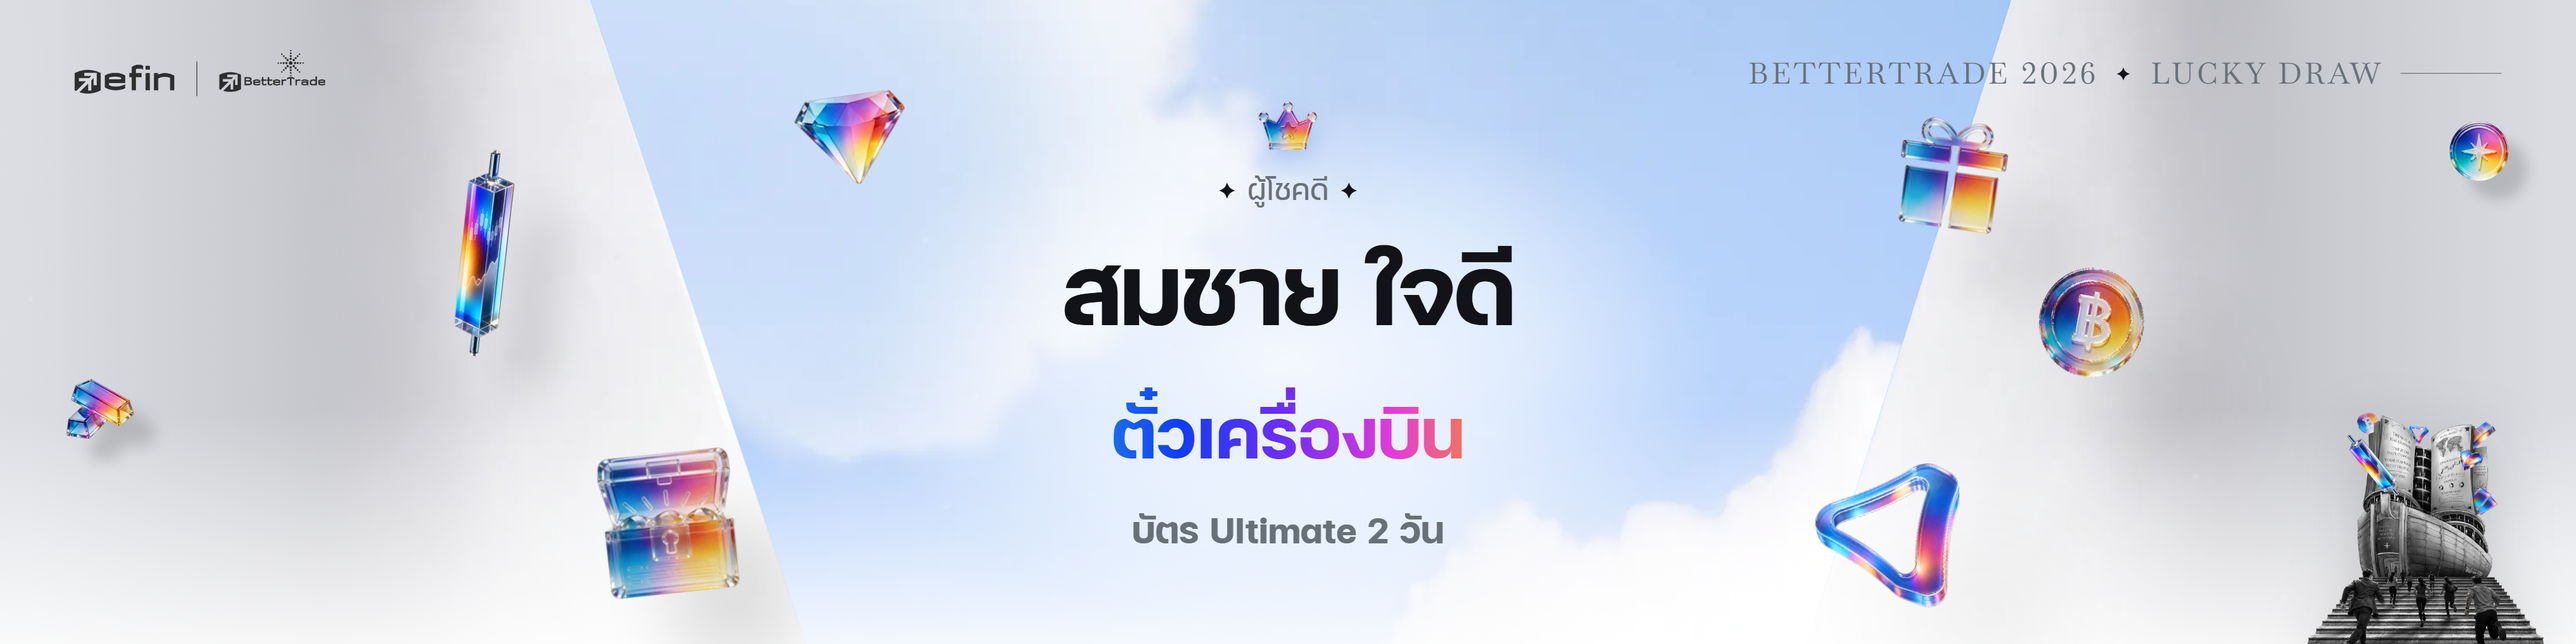
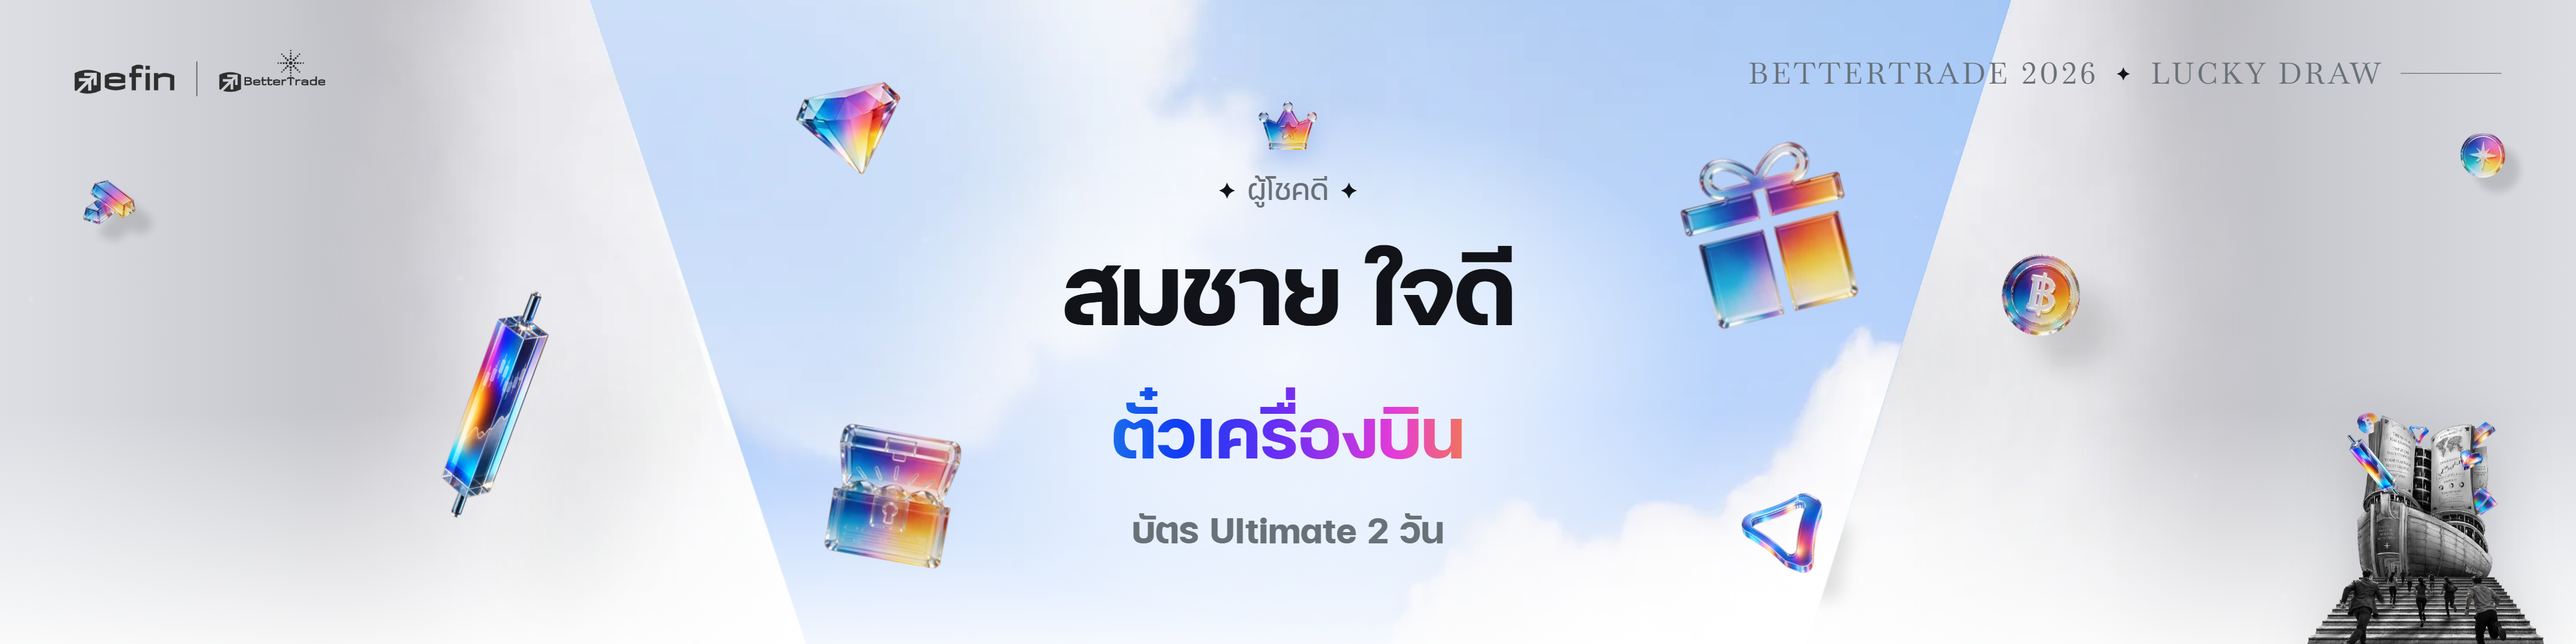
Main Stage: size ladder for the glass pieces, groups that slide towards the content
- Eight-step size ladder (candle 300 down to compass 60) with five depth layers
  (hero / large / mid / small / far): shadow reach, softness and bob scale with size;
  the two furthest pieces are hazed a little
- Right group (gift, coin, efin) and left group (diamond, chest) slide towards the
  content by up to 300px, as far as each scene's text allows, and stay at least ~100px
  clear; wide prize titles and long names push them back out; the chest keeps clear of
  the candle; shadows slide with them; the board scene resets them
- placeGroup measures layout boxes and un-transforms the scene instead of reading
  mid-animation rects, so the result no longer depends on when the scene is switched
- Regenerate previews

diff --git a/show-screen.html b/show-screen.html
@@ -47,25 +47,33 @@
   .seam.l{left:-329px;background:linear-gradient(90deg,#C8C9CE,rgba(200,201,206,0))}
   .seam.r{left:2015px;background:linear-gradient(270deg,#C8C9CE,rgba(200,201,206,0))}
   .wing-el{position:absolute;filter:drop-shadow(0 22px 26px rgba(63,111,224,.2));animation:bob 7s ease-in-out infinite}
-  /* Main Stage pieces in three depth layers, from the wings in to the sky around the content:
-       far   (wings, small)            gold bars b, compass c
-       mid   (straddling the wall edge) candle, chest, ship
-       near  (in the sky, clear of text) diamond n1, coin n2, gift, efin */
-  .wing-el.b{left:-640px;bottom:240px;width:130px;animation-delay:-4.5s}
-  .wing-el.c{left:2440px;top:140px;width:110px;animation-delay:-1s}
-  .wing-el.n1{left:340px;top:120px;width:120px;animation-delay:-3s}
-  .wing-el.n2{left:1940px;top:360px;width:110px;animation-delay:-5.5s}   /* between the name's right edge (~1560) and the ship (~2274), a little nearer the ship */
+  /* Main Stage pieces on an 8-step size ladder (shown size, set by DEPTH in the script), placed so big and small pieces
+     sit side by side rather than in an even staircase:
+       hero 300 candle (left, low) · large 220 gift (right, high) · mid 170 chest, 140 diamond n1 ·
+       small 110 coin n2, 90 efin · far 70 gold bars b, 60 compass c (slightly hazed) */
+  .wing-el.b{left:-625px;top:195px;width:130px;animation-delay:-4.5s}
+  .wing-el.c{left:2445px;top:145px;width:110px;animation-delay:-1s}
+  .wing-el.n1{left:40px;top:110px;width:120px;animation-delay:-3s}   /* resting spot, out on the left; slides in with the chest */
+  .wing-el.n2{left:2175px;top:325px;width:110px;animation-delay:-5.5s}   /* above the ship, right of the gift */
+  body.screen-main #stage.depth .wing-el:is(.b,.c){opacity:.85}   /* the two furthest pieces read a little hazier */
   /* the logo row follows the edges of the whole 4:1 screen (same 96px margin as Mini Stage), not the 1920 core */
   body.screen-main .top{left:-604px;right:-604px}
   body.screen-main .wall.l{left:-325px}
   body.screen-main .wall.r{left:1559px}
-  body.screen-main .el.candle{left:-200px;top:200px}   /* bar centred between the far gold bars (~-510) and the name's left edge (~360) */
-  body.screen-main .el.chest{left:77px;bottom:70px}   /* centred between the bar chart (~-75) and the near diamond (~400) */
+  body.screen-main .el.candle{left:-185px;top:395px}   /* the hero piece, low on the left wall */
+  body.screen-main .el.chest{left:65px;bottom:auto;top:555px}   /* beside the candle, a size smaller */
   body.screen-main .el.gift{right:auto;left:1560px;top:150px;width:170px}   /* below the corner label, which is larger on Main Stage */
   body.screen-main .ship{right:-660px;height:300px}   /* right zone, clear of the board */
-  body.screen-main .el.efin{right:auto;bottom:auto;left:1680px;top:640px;width:120px}
+  body.screen-main .el.efin{right:auto;bottom:auto;left:1840px;top:633px;width:120px}   /* small, low, well away from the ship */
   /* the 4-column board fills the sky, so the mid and near pieces step aside there (far pieces and the ship stay) */
-  .el,.wing-el{transition:opacity .6s,scale .8s ease,rotate .8s ease}   /* size and tilt ease in and out of the depth treatment */
+  .el,.wing-el{transition:opacity .6s,scale .8s ease,rotate .8s ease,margin-left .8s ease}   /* size, tilt and the right group's slide ease between scenes */
+  /* Main Stage right group (gift, coin, efin) slides left by --gx towards the content, as far as each scene's text allows
+     (placeGroup in the script); its shadows slide with it */
+  body.screen-main #core > :is(.el.gift,.wing-el.n2,.el.efin){margin-left:calc(-1 * var(--gx,0px))}
+  body.screen-main .shadows :is(.el.gift,.wing-el.n2,.el.efin).cast{margin-left:calc(1400px - var(--gx,0px))}
+  /* and the left group (diamond, chest) mirrors it: rests out on the left, slides right by --gxl */
+  body.screen-main #core > :is(.wing-el.n1,.el.chest){margin-left:var(--gxl,0px)}
+  body.screen-main .shadows :is(.wing-el.n1,.el.chest).cast{margin-left:calc(1400px + var(--gxl,0px))}
   body.screen-main #stage[data-scene="board"] :is(.el.candle,.el.chest,.el.gift,.el.efin,.wing-el.n1,.wing-el.n2){opacity:0}
   /* ---- KV backdrop: sky seen between two white walls (key visual), layered so each part can move ---- */
   .sky{position:absolute;top:0;left:-6%;width:112%;height:100%;background:url("prize-assets/img/kv-sky.webp") center/cover no-repeat;
@@ -306,7 +314,7 @@
   /* Mini Stage: the efin symbol sits low beside the ship, with room to breathe */
   body.screen-mini #stage.depth .el.efin{right:430px;bottom:77px}   /* ~110px clear of the ship's hull */
   /* Main Stage: the gift sits a little lower and right so it clears the corner label and long winner names once it is larger */
-  body.screen-main #stage.depth .el.gift{top:140px;left:1730px}   /* right of where a very long winner name ends (~1720) */
+  body.screen-main #stage.depth .el.gift{top:215px;left:1795px}   /* the large piece on the right: under the corner label, right of where a very long name ends (~1720) */
   /* Mini Stage: the larger gift steps down, clear of the corner label */
   body.screen-mini #stage.depth .el.gift{top:140px}
   body.screen-mini #stage.depth[data-scene="board"] .el.gift{top:104px}
@@ -480,7 +488,7 @@ function setScreen(x){
   document.querySelectorAll("#demoBar [data-screen]").forEach(b => b.setAttribute("aria-pressed", b.dataset.screen === screen));
   fit();
   stage.dataset.sized = "1";
-  if(window.depthReady) applyDepth();
+  if(window.depthReady){ applyDepth(); placeGroup(); }
   if(!first && typeof lastBoard !== "undefined" && lastBoard && stage.dataset.scene === "board") showBoard(lastBoard);
 }
 addEventListener("resize", fit);
@@ -558,15 +566,19 @@ const DEPTH_SCENES = new Set(["idle", "prize", "drawing", "redraw", "reveal", "b
 // per screen, per piece (its second class): [layer, scale, tilt in degrees, visible share of the image box (default 1)]
 const DEPTH = {
   mini: { candle: ["near", 1.25, 8, .55], chest: ["mid", 1.3, -6], gift: ["mid", 1.08, 7], efin: ["far", .8, -14] },
-  main: { candle: ["mid", 1.15, 6, .55], chest: ["mid", 1.3, -6], gift: ["near", 1, 8], efin: ["near", 1.6, -10], n1: ["near", 1.45, -8],
-          n2: ["near", 1.6, 10], b: ["far", .85, -12], c: ["far", .85, 0] },
+  // Main Stage ladder, shown size: candle 300, gift 220, chest 170, diamond 140, coin 110, efin 90, gold bars 70, compass 60
+  main: { candle: ["hero", 1.33, 20, .55], gift: ["large", 1.54, -14], chest: ["mid", 1.19, 10], n1: ["mid", 1.39, -12],
+          n2: ["small", 1.19, 10], efin: ["small", .89, -8], b: ["far", .64, -4], c: ["far", .65, 3] },
 };
 // per screen and scene: entries that replace the ones above (Mini board: the gift and candle stay smaller, clear of the cards and the corner label)
 const DEPTH_SCENE = { mini: { board: { gift: ["mid", .95, 4], candle: ["near", 1.05, 8, .55] } } };
 // k: shadow offset as a share of the piece's size (further from the wall = longer, softer, lighter); amp: bob as a share of its size
 const LAYER = {
+  hero:  { k: .62, blur: .22, op: .08, amp: .13, dur: 7 },
+  large: { k: .55, blur: .20, op: .09, amp: .12, dur: 6.5 },
   near: { k: .55, blur: .20, op: .09, amp: .12, dur: 6 },
   mid:  { k: .40, blur: .15, op: .12, amp: .10, dur: 6 },
+  small: { k: .32, blur: .12, op: .13, amp: .09, dur: 5 },
   far:  { k: .26, blur: .10, op: .15, amp: .08, dur: 4.2 },
 };
 const castLayer = $(".shadows");
@@ -599,12 +611,83 @@ const dustRand = (() => { let x = 11; return () => (x = (x * 9301 + 49297) % 233
 $(".dust").innerHTML = Array.from({ length: 26 }, () =>
   `<i style="left:${(700 + dustRand() * 3320).toFixed(0)}px;top:${(dustRand() * 1000).toFixed(0)}px;--d:${(2 + dustRand() * 3).toFixed(1)}px;--t:${(2.5 + dustRand() * 3).toFixed(1)}s;--dl:-${(dustRand() * 5).toFixed(1)}s"></i>`).join("");
 addEventListener("load", applyDepth);   // image heights are known once they load
+
+// Main Stage: two groups slide towards the content as far as each scene's text allows, so narrow scenes get them close
+// and wide titles or long names push them back out. Each group moves as one, keeping its arrangement:
+//   right group (gift, coin, efin) slides left, left group (diamond, chest) slides right,
+//   both by up to GROUP_MAX and never closer than GROUP_PAD to text or cards sharing a piece's height band.
+// The left group may also slide out (negative) for very wide titles, but the chest keeps CANDLE_GAP from the candle.
+const GROUP_MAX = 300, GROUP_PAD = 110, CANDLE_GAP = 30;   // 110 measured on the layout box: the tilted pieces end up >= 100 clear
+const rightEls = ["#core > .el.gift", "#core > .wing-el.n2", "#core > .el.efin"].map(q => $(q));
+const leftEls = ["#core > .wing-el.n1", "#core > .el.chest"].map(q => $(q));
+function sceneBoxes(scene){
+  const boxes = [];
+  const walk = n => { for(const c of n.childNodes){
+    if(c.nodeType === 3 && c.textContent.trim()){ const r = document.createRange(); r.selectNodeContents(c); boxes.push(...r.getClientRects()); }
+    else if(c.nodeType === 1 && getComputedStyle(c).display !== "none"){
+      if(c.tagName === "IMG" || c.matches(".tile,.group,.reel-band,.rule > div,.deck")){ const r = c.getBoundingClientRect(); if(r.width) boxes.push(r); }
+      if(c.tagName !== "IMG") walk(c);
+    } } };
+  walk(scene);
+  return boxes;
+}
+// Everything is measured in #core's own coordinates and from layout, not from getBoundingClientRect: the pieces are mid-slide
+// (margin, scale, tilt, bob) and the scene is mid-fade (translate + scale) when a scene changes, and measuring those would
+// give a different answer every time. Pieces use their layout box with the slide taken out; text boxes have the scene's
+// current transform undone, so both are measured as if everything had settled.
+function layoutBox(e){
+  const cs = getComputedStyle(e), sc = parseFloat(e.style.getPropertyValue("--s")) || 1;
+  const left = e.offsetLeft - (parseFloat(cs.marginLeft) || 0);                 // where it rests, without the slide
+  const cx = left + e.offsetWidth / 2, cy = e.offsetTop + e.offsetHeight / 2;
+  const w = e.offsetWidth * sc * .84, h = e.offsetHeight * sc * .84;          // the visible part of the image
+  return { l: cx - w / 2, r: cx + w / 2, t: cy - h / 2, b: cy + h / 2 };
+}
+function settledSceneBoxes(scene, core, k){
+  const cr = core.getBoundingClientRect();
+  const m = getComputedStyle(scene).transform, inv = (m === "none" ? new DOMMatrix() : new DOMMatrix(m)).inverse();
+  const ox = scene.offsetWidth / 2, oy = scene.offsetHeight / 2;
+  const pt = (x, y) => { const q = inv.transformPoint(new DOMPoint((x - cr.left) / k - ox, (y - cr.top) / k - oy)); return { x: q.x + ox, y: q.y + oy }; };
+  return sceneBoxes(scene).map(r => { const a = pt(r.left, r.top), b = pt(r.right, r.bottom); return { l: a.x, r: b.x, t: a.y, b: b.y }; });
+}
+function placeGroup(){
+  const core = $("#core");
+  const reset = () => { core.style.setProperty("--gx", "0px"); core.style.setProperty("--gxl", "0px"); };
+  if(screen !== "main" || stage.dataset.scene === "board"){ reset(); return; }
+  const scene = $(".scene.on");
+  if(!scene) return;
+  const k = stage.getBoundingClientRect().width / stage.offsetWidth;          // client px per design px
+  const boxes = settledSceneBoxes(scene, core, k);
+  const inBand = (b, p) => b.b > p.t - GROUP_PAD && b.t < p.b + GROUP_PAD;
+  // right group: the nearest text edge to its left limits how far it slides left
+  let right = GROUP_MAX;
+  for(const e of rightEls){
+    const p = layoutBox(e);
+    const edge = Math.max(-Infinity, ...boxes.filter(b => inBand(b, p) && b.l < p.l).map(b => b.r));
+    if(edge > -Infinity) right = Math.min(right, p.l - edge - GROUP_PAD);
+  }
+  core.style.setProperty("--gx", Math.max(0, Math.floor(right / 10) * 10) + "px");
+  // left group: the nearest text edge to its right limits how far it slides right
+  let left = GROUP_MAX;
+  for(const e of leftEls){
+    const p = layoutBox(e);
+    const edge = Math.min(Infinity, ...boxes.filter(b => inBand(b, p) && b.r > p.r).map(b => b.l));
+    if(edge < Infinity) left = Math.min(left, edge - p.r - GROUP_PAD);
+  }
+  // the chest keeps CANDLE_GAP from the candle bar, which is a narrow strip of its square image
+  const candle = $("#core > .el.candle"), cSc = parseFloat(candle.style.getPropertyValue("--s")) || 1;
+  const candleR = candle.offsetLeft + candle.offsetWidth / 2 + candle.offsetWidth * cSc * .22 / 2;
+  const floor = candleR - layoutBox($("#core > .el.chest")).l + CANDLE_GAP;
+  core.style.setProperty("--gxl", Math.max(Math.ceil(floor / 10) * 10, Math.floor(left / 10) * 10) + "px");
+}
+document.fonts?.ready.then(placeGroup);
 window.depthReady = true;
 
 function go(scene){
   stage.dataset.scene = scene;
   if(window.depthReady) applyDepth();
   document.querySelectorAll(".scene").forEach(s => s.classList.toggle("on", s.dataset.scene === scene));
+  // after the scene's text is in place (and long names are fitted), bring the right group in
+  requestAnimationFrame(() => requestAnimationFrame(placeGroup));
   if(scene !== "reveal"){ parts = []; emitUntil = 0; }
   const chip = scene === "redraw" ? "drawing" : scene;
   document.querySelectorAll("#demoBar [data-demo]").forEach(b => b.setAttribute("aria-pressed", b.dataset.demo === chip));
